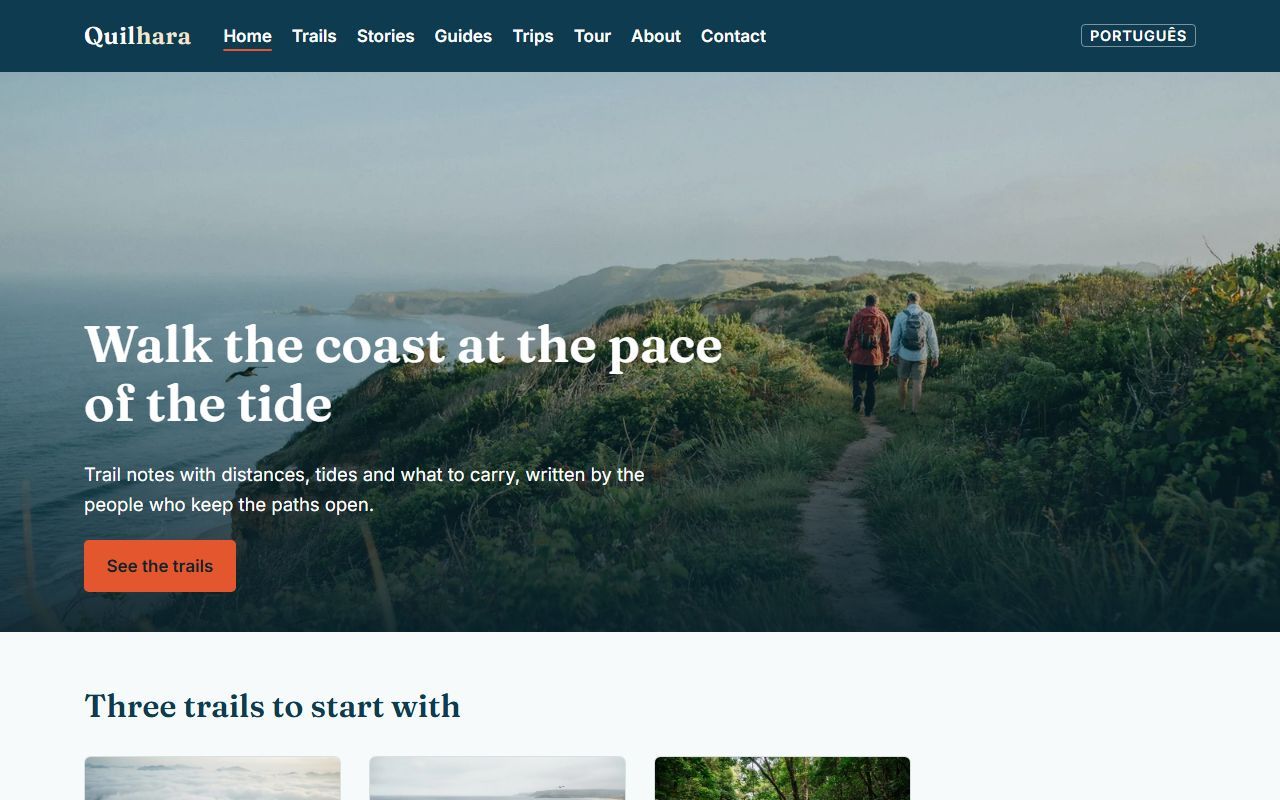
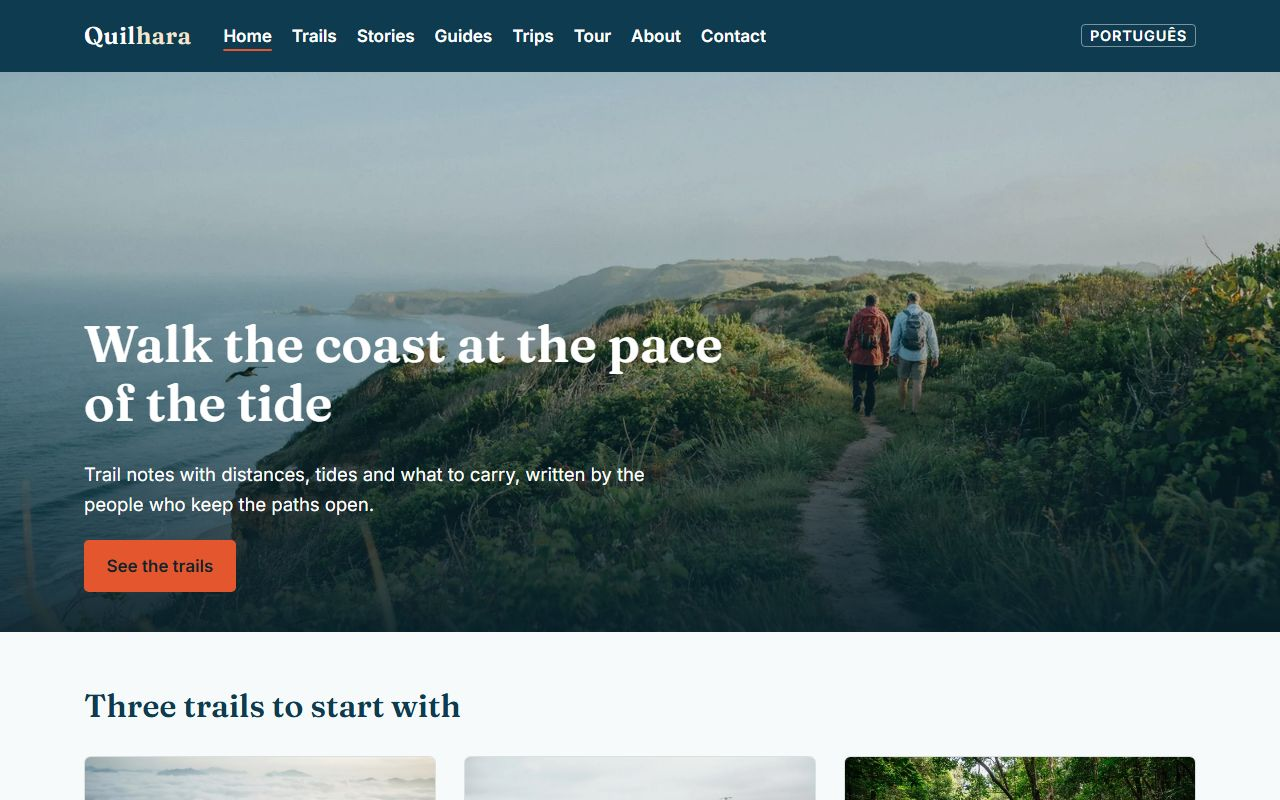
fix(showcase): let the home's curated card rows fill the content width (SH1293)
- Adjusted the card grid layout for the showcase home to use `auto-fit`, allowing the curated rows to fill the available width without leaving empty tracks.
- Updated the theme configuration in `theme.json` to reflect the new grid settings, ensuring a consistent display across different screen sizes.
- Enhanced the test suite to validate the new layout behavior, ensuring that the rows collapse empty tracks while maintaining proper alignment for listings.
- Modified the CHANGELOG and ROADMAP documentation to include details about this fix, providing clarity on the changes made and their impact on the user experience.
- Updated the published screenshot to visually represent the corrected layout, ensuring that documentation accurately reflects the current state of the showcase home.

Changed region(s): [[0.25, 0.9375, 0.9375, 1.0], [0.125, 0.9375, 0.1562, 0.9688], [0.0625, 0.9375, 0.0938, 0.9688]]

diff --git a/docs/IMPROVEMENTS.md b/docs/IMPROVEMENTS.md
@@ -268,26 +268,6 @@ Assert at the delivery boundary: an anonymous read of a members page gets the si
 denial, a user in the group reads it, and a public sibling keeps its public cache
 header.
 
-### XI.61 XI.61 The showcase's card rows stop short (SH1258 finding) (SH1293)
-
-Seen in the SH1258 screenshot of the showcase home at 1280px: "Three trails to start
-with" renders three cards and an empty fourth column, so the row stops short of the
-content width and reads as a missing card.
-
-Cause, from `marketplace/quilhara/content/theme.json`: the card grid is
-`grid-template-columns: repeat(auto-fill, minmax(16rem, 1fr))`. `auto-fill` keeps every
-track that fits, filled or not, so a 70rem container holds four 16rem tracks and three
-cards leave one empty. `auto-fit` collapses the empty tracks and lets the three stretch.
-
-What to build: switch the card grid to `auto-fit` (or cap the columns at the item count
-for the featured row), then re-run `shio-site/scripts/showcase-screenshots.mjs` so the
-published home screenshot shows the fixed row. Check the trails, stories and guides
-listings at the same width, since they share the rule and can end on a partial row too;
-a listing that ends on a partial row is fine left-aligned, so the fix should not stretch
-a last row of one card across the page.
-
-Done when the home's featured row fills the content width at 1280px and 1440px.
-
 ### XI.62 XI.62 The tour's try-it section is misnamed (SH1258 finding) (SH1294)
 
 Seen in the SH1258 screenshot of the showcase `/tour` page: the page title is "How this

diff --git a/docs/ROADMAP.md b/docs/ROADMAP.md
@@ -13,7 +13,6 @@
 
 - ⏳ **SH1245** (deps: owner submits entries) **No MCP directory or Claude Code plugin list names Shio, so a Claude Code user meets it only by chance** — Entries are drafted in the visibility repo; the npm package must ship mcpName before the registry accepts it. → §XI.28
 - 🛠 **SH1285** (deps: —) **A delivered site cannot show a page only to signed-in members: content ACL never gates a visitor** — Gate the sitemap and agent public reads; per-site login redirect; post-level gates; the flag in _folder.md and frontmatter; console folder and post settings. → §XI.57
-- 📋 **SH1293** (deps: —) **The showcase home's three featured trails leave an empty fourth column at desktop width** — An auto-fill card grid keeps an empty track, so the showcase's first screen reads as a missing card in the screenshot the marketplace publishes. → §XI.61
 - 📋 **SH1294** (deps: —) **The showcase tour pages head their try-it section "How this was built", echoing the /tour title** — On /tour the section heading nearly repeats the page title, and it names a story where the section holds calls a reader can copy and run. → §XI.62
 - 📋 **SH1297** (deps: —) **A CDA site-wide listing's total counts members-only posts the reader cannot see** — The rows are filtered after the query, so a stranger's total over a page reveals how many gated posts a site holds. → §XI.63
 

diff --git a/docs/agents/blueprints.md b/docs/agents/blueprints.md
@@ -1093,6 +1093,13 @@ is measured against `blueprint.apply.quilhara` in `token-budgets.properties`. A 
 start the jar with `--shio.blueprint.path=<repo>/marketplace`, apply with `createSite` and
 `mergePostTypes`, and walk `/sites/quilhara/default/{en-us,pt-br}/` in a browser.
 
+**Card rows (SH1293).** `.q-cards` is `auto-fill`, so a listing keeps its tracks and a short last
+row (or a one-card listing) stays card-width and left-aligned. The home's two curated rows add
+`q-cards-row` (`auto-fit`), which collapses the empty track three cards left at desktop width. A
+curated row of a fixed few takes the modifier; anything a query or a relation can shrink to one
+card does not. `cli/test/showcase-matrix.test.mjs` holds both halves. After a change to the look,
+re-run `shio-site/scripts/showcase-screenshots.mjs` so the published screenshots follow.
+
 **What building it found**, each a task rather than a workaround in the package: SH1263, SH1264,
 SH1265 (shipped before it), and SH1266 to SH1275 open in Block J. Three warnings remain on an applied
 site, `asset-unused` for the fonts, which SH1268 withdrew whenever the `page` check runs.

diff --git a/docs/CHANGELOG.md b/docs/CHANGELOG.md
@@ -409,6 +409,7 @@
 - **SH1285 (folder gate on /sites)** — folder.visibility makes a section members-only for named groups or any signed-in user, and /sites/** answers outsiders the missing-page 404 and members a private, no-store page.
 - **SH1295** — A gated post on the CDA reaches only a token whose owner is a member or an administrator, answers others the missing-post 404, and is served private, no-store.
 - **SH1296** — Every CDA listing drops the posts a token's owner may not read, a gated folder lists as absent and leaves its parent's children, and an instance with no gate pays one count per listing.
+- **SH1293** — The showcase home's featured trails and trips rows fill the content width at 1280px and 1440px, listings keep left-aligned tracks, and the published home screenshot shows the fixed row (design §XI.61 recorded in `shio-site/README.md`).
 
 ## Block M — Token economy, measured (SH74)
 
